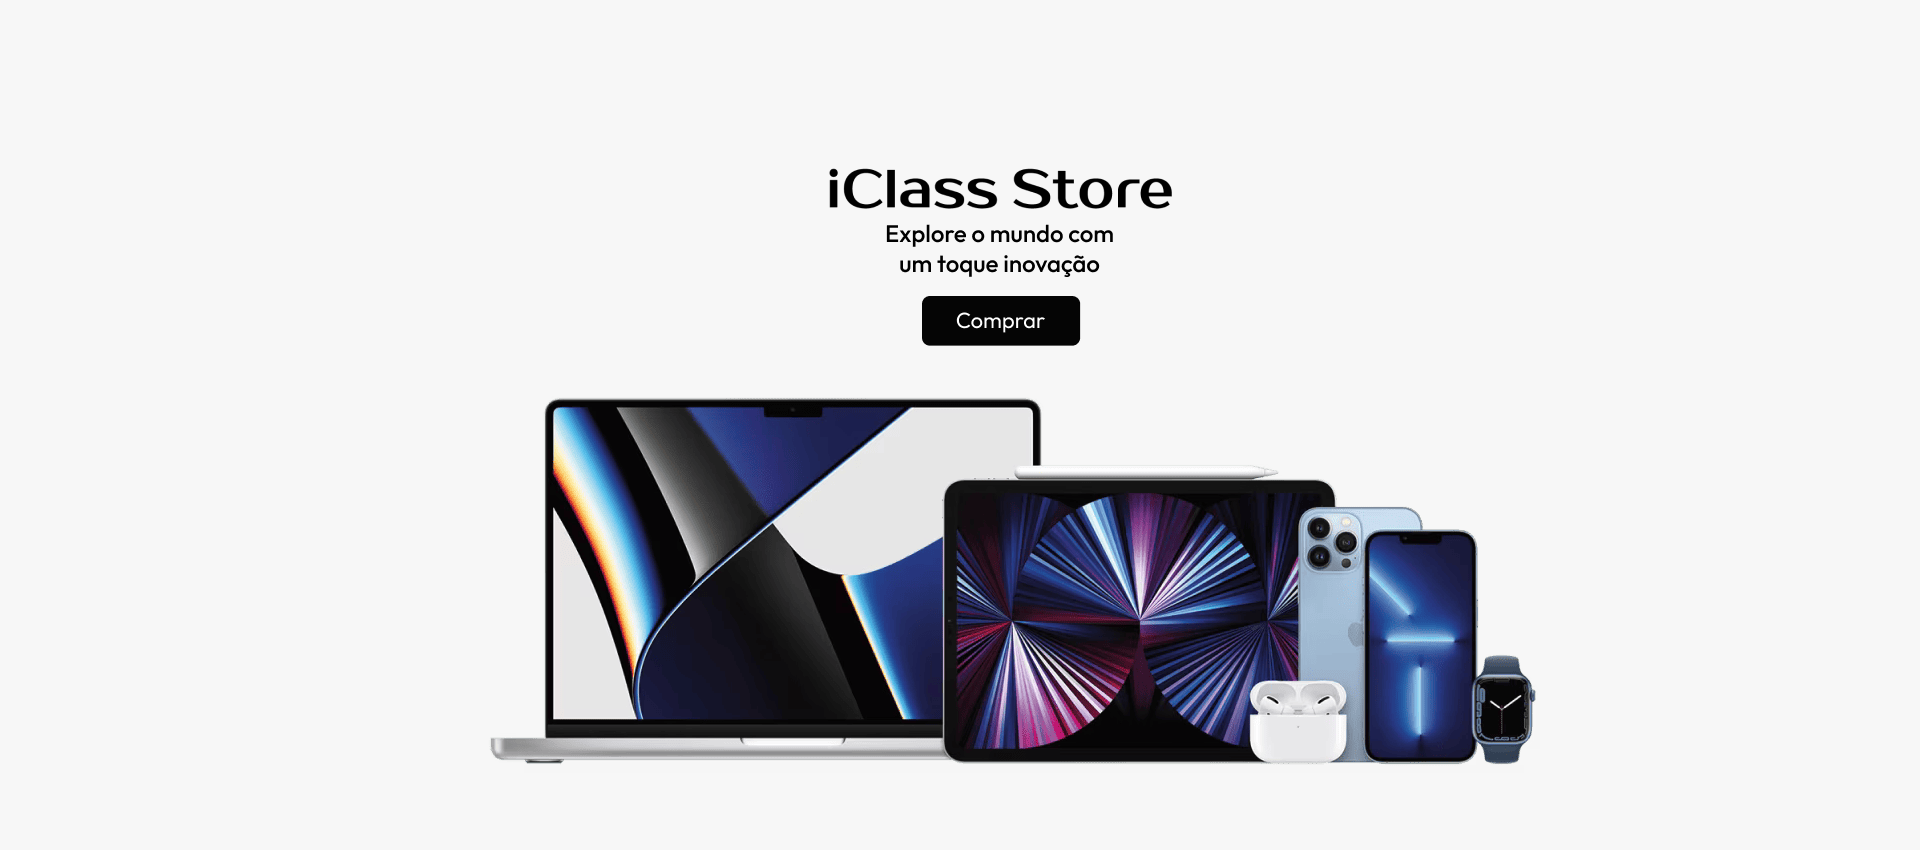
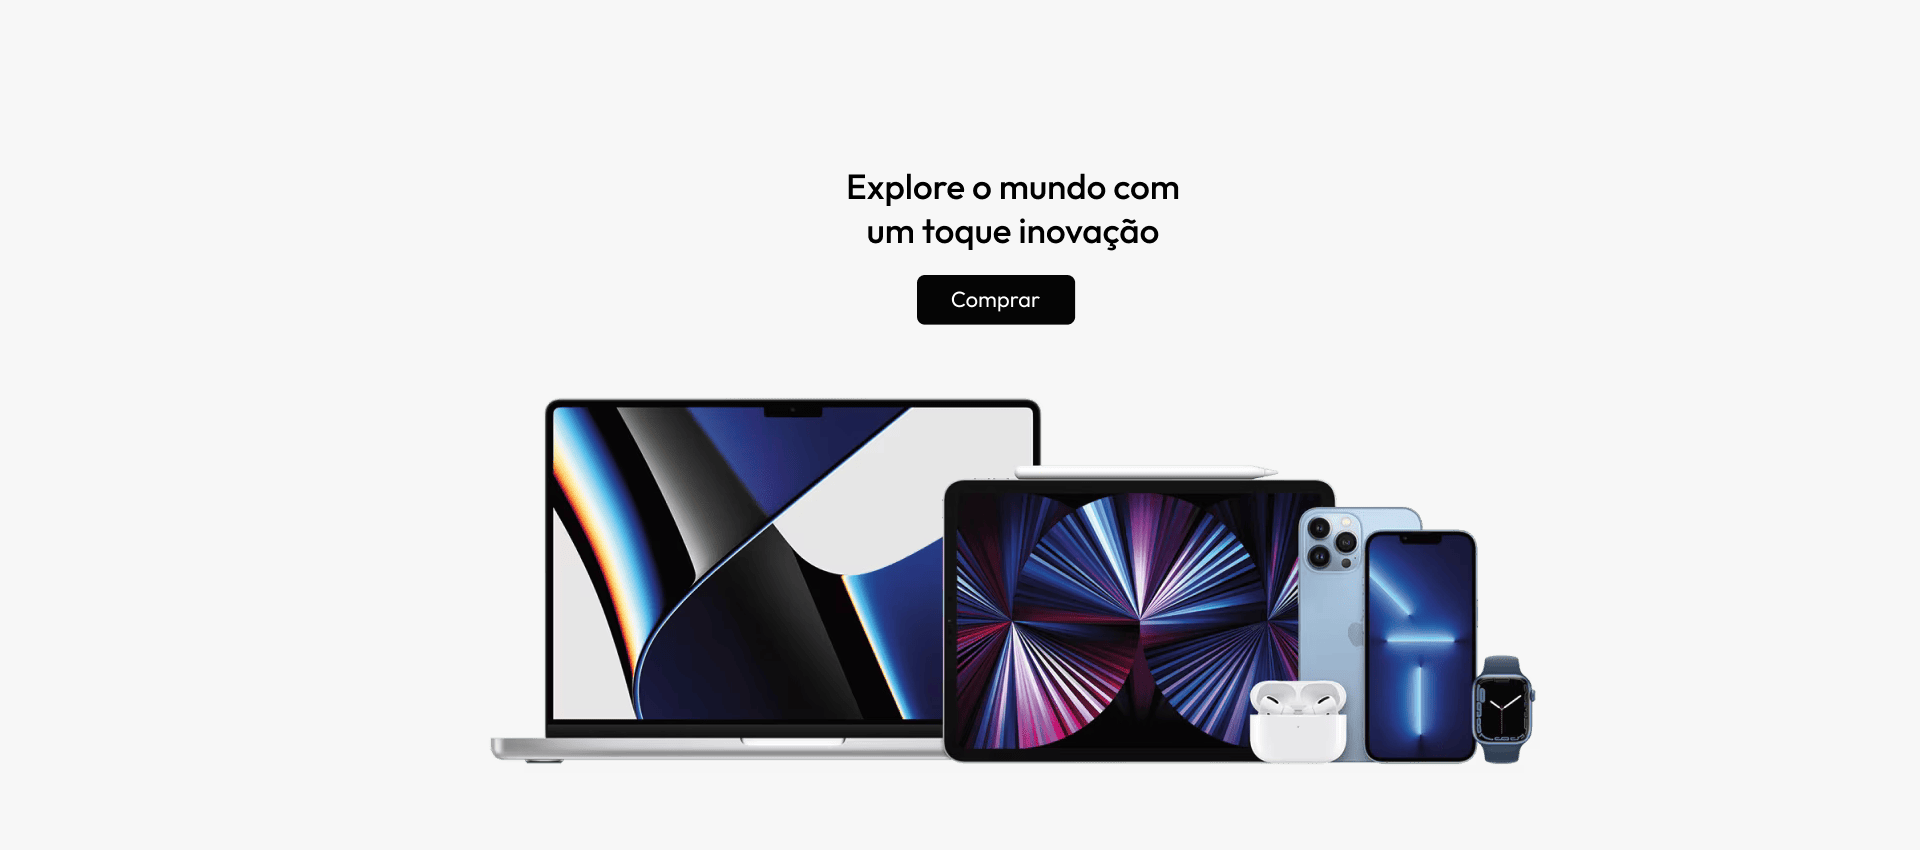
Add scripts and change font family

Changed region(s): [[0.4062, 0.1835, 0.625, 0.4282]]

diff --git a/assests/styles/styles.css b/assests/styles/styles.css
@@ -4,8 +4,15 @@
   box-sizing: border-box;
 }
 
+@font-face {
+    font-family: 'Outfit';
+    src: url('./../src/font/Outfit.ttf') format('truetype');
+    font-weight: normal; 
+    font-style: normal; 
+}
+
 html {
-  --font: -apple-system, BlinkMacSystemFont, 'Segoe UI', Roboto, Oxygen, Ubuntu,
+  --font: "Outfit", sans-serif, -apple-system, BlinkMacSystemFont, 'Segoe UI', Roboto, Oxygen, Ubuntu,
     Cantarell, 'Open Sans', 'Helvetica Neue', sans-serif;
   --font-title: Georgia, 'Times New Roman', Times, serif;
   --font-size: 1.2rem;
@@ -32,7 +39,7 @@ button {
 h1,
 h2,
 h3 {
-  font-family: var(--font-title);
+  font-family: var(--font);
 }
 
 h1,
@@ -65,6 +72,7 @@ label {
 header {
     background: #040505;
     padding: 10px 0;
+    transition: all .2s;
 }
 
 header .container {
@@ -74,18 +82,45 @@ header .container {
 }
 
 header img {
-    width: 200px;
+    width: 250px;
+    transition: all .8s;
 }
 
 header nav ul li a {
     color: #F2EFF8;
     font-size: 18px;
+    transition: all .8s;
 }
 
 header nav ul {
     display: flex;
     justify-content: center;
-    gap: 10px;
+    gap: 15px;
+}
+
+.fixed-header {
+    position: fixed;
+    top: 0;
+    left: 0;
+    width: 100%;
+    background-color: rgba(5, 5, 5); 
+    z-index: 1000;
+    transition: all .2s;
+}
+
+.fixed-header img {
+    width: 180px;
+    transition: all .8s;
+}
+
+.fixed-header nav ul li a {
+    font-size: 14px;
+    transition: all .8s;
+}
+
+.fixed-header nav ul {
+    padding: 0;
+    margin: 8px;
 }
 
 #banner img {

diff --git a/index.html b/index.html
@@ -31,9 +31,9 @@
     <header>
         <div class="container">
             <div>
-                <img src="./assests/images/iclass-white.svg" alt="Logo iClass Store">
+                <a href="#banner"><img src="./assests/images/iclass-white.svg" alt="Logo iClass Store"></a>
             </div>
-            <nav aria-label="Navegação principal">
+            <nav class="main_navigation" aria-label="Navegação principal">
                 <ul>
                     <li><a href="#iphone">iPhone</a></li>
                     <li><a href="#ipad">iPad</a></li>
@@ -155,6 +155,7 @@
                 <p>Todos os direitos reservados.</p>
             </div>
         </div>
-    </footer>   
+    </footer>  
+    <script src="./assests/script/script.js" type="text/javascript"></script>
 </body>
 </html>

diff --git a/assests/script/script.js b/assests/script/script.js
@@ -1,0 +1,29 @@
+// Header Fixed
+const header = document.querySelector('header');
+
+window.addEventListener('scroll', () => {
+    if (window.scrollY > 1) {
+        header.classList.add('fixed-header');
+    } else {
+        header.classList.remove('fixed-header');
+    }
+});
+
+
+// Smooth Scroll
+const linksInternos = document.querySelectorAll("header .container a");
+
+const scrollToSection = (event) => {
+    event.preventDefault();
+
+    const href = event.target.getAttribute('href');
+    const section = document.querySelector(href);
+
+    if (section) {
+        section.scrollIntoView({ behavior: 'smooth', block: 'start' });
+    }
+};
+
+linksInternos.forEach(link => {
+    link.addEventListener('click', scrollToSection);
+});
